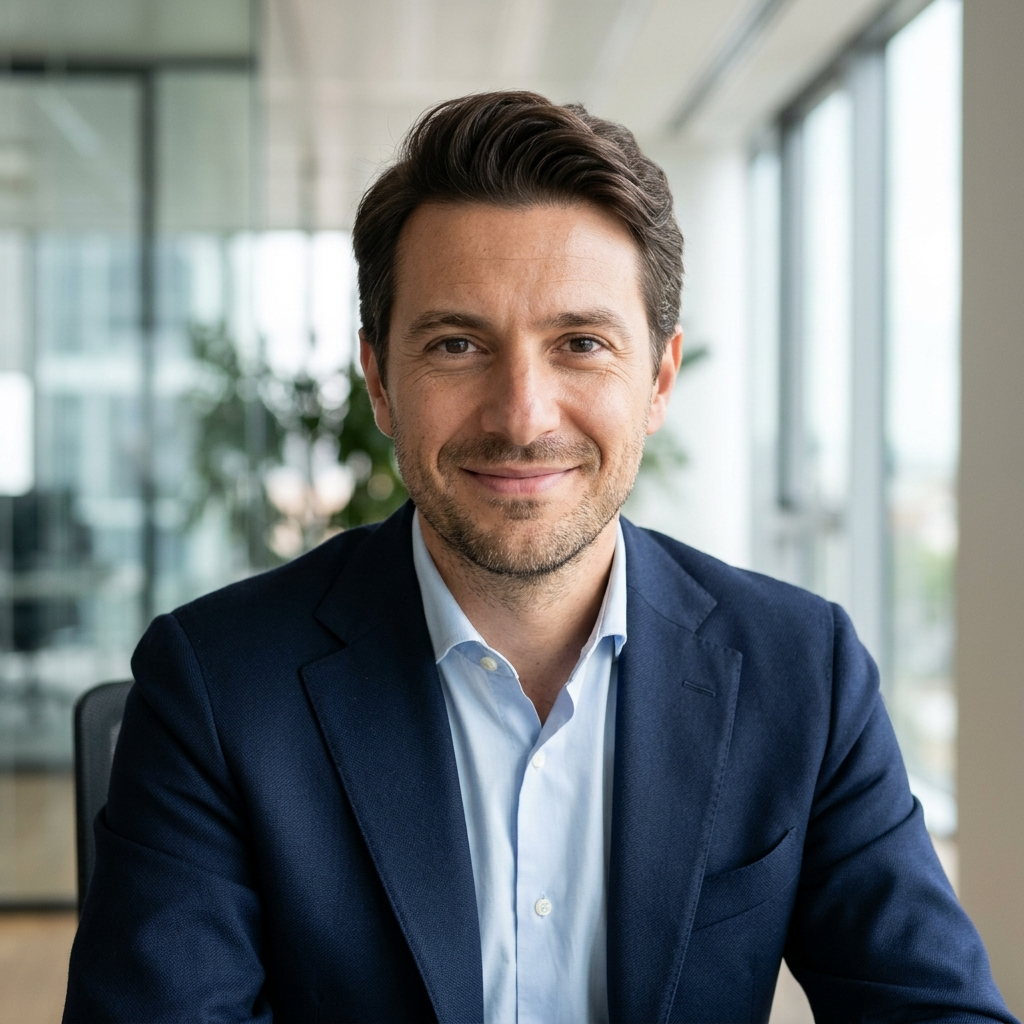
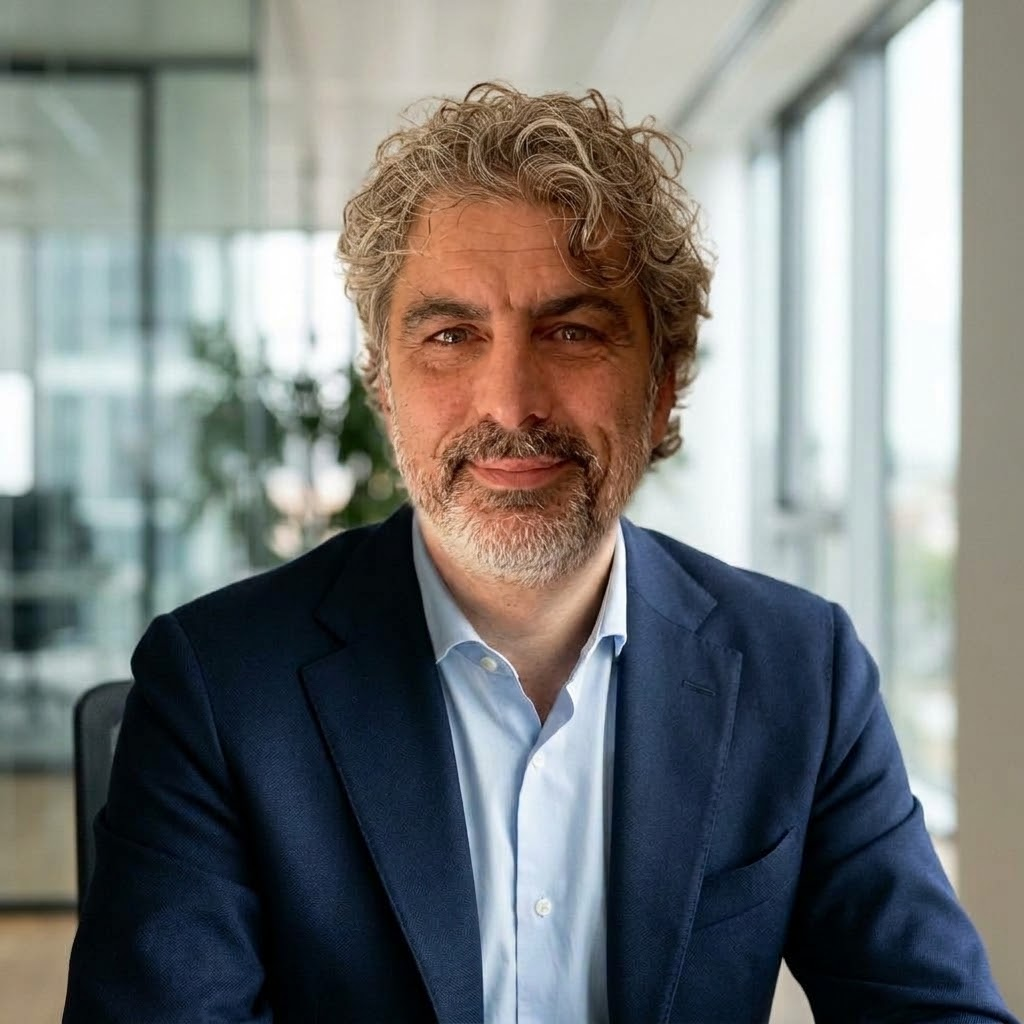
feat(assets): update Federico Ponso portrait with PONZ.jpg

Changed region(s): [[0.3125, 0.0625, 0.7188, 0.625]]

diff --git a/index.html b/index.html
@@ -153,11 +153,22 @@
             </a>
           </div>
 
-          <!-- Garanzie Immediatamente Visibili -->
-          <div class="pt-4 flex flex-col sm:flex-row sm:items-center gap-4 text-sm text-slate-300 border-t border-slate-800">
-            <span><strong class="text-white">Incontri a domicilio:</strong> vengo direttamente a casa tua o sul terreno interessato.</span>
-            <span class="hidden sm:inline text-slate-600">|</span>
-            <span><strong class="text-white">Tutela di legge:</strong> ogni pagamento viene versato sempre e solo a te.</span>
+          <!-- Riquadro Persona in Apertura: Foto, Nome, Titolo e Invito -->
+          <div class="pt-4 flex flex-col sm:flex-row sm:items-center gap-5 p-4 rounded-xl bg-slate-800/90 border border-slate-700 max-w-xl">
+            <img
+              src="federico-ponso.jpg?v=ponz"
+              alt="Federico Ponso — Consulente Espropriativo"
+              class="w-20 h-20 rounded-xl object-cover border border-slate-600 shrink-0"
+            >
+            <div>
+              <div class="text-lg font-bold text-white leading-snug">Federico Ponso — Consulente Espropriativo</div>
+              <p class="text-sm text-slate-300 mt-0.5">
+                Ti invito a un <strong class="text-white">primo incontro senza impegno</strong>, direttamente a casa tua o sul terreno interessato.
+              </p>
+              <p class="text-xs text-amber-300 font-bold mt-1.5">
+                Ogni pagamento per legge viene versato sempre e solo a te.
+              </p>
+            </div>
           </div>
         </div>
 
@@ -232,7 +243,7 @@
         <div class="lg:col-span-5">
           <div class="bg-slate-50 rounded-2xl p-4 border border-slate-200 shadow-sm">
             <img
-              src="federico-ponso.jpg"
+              src="federico-ponso.jpg?v=ponz"
               alt="Federico Ponso — Consulente Espropriativo"
               class="w-full aspect-square object-cover rounded-xl border border-slate-200"
             >
